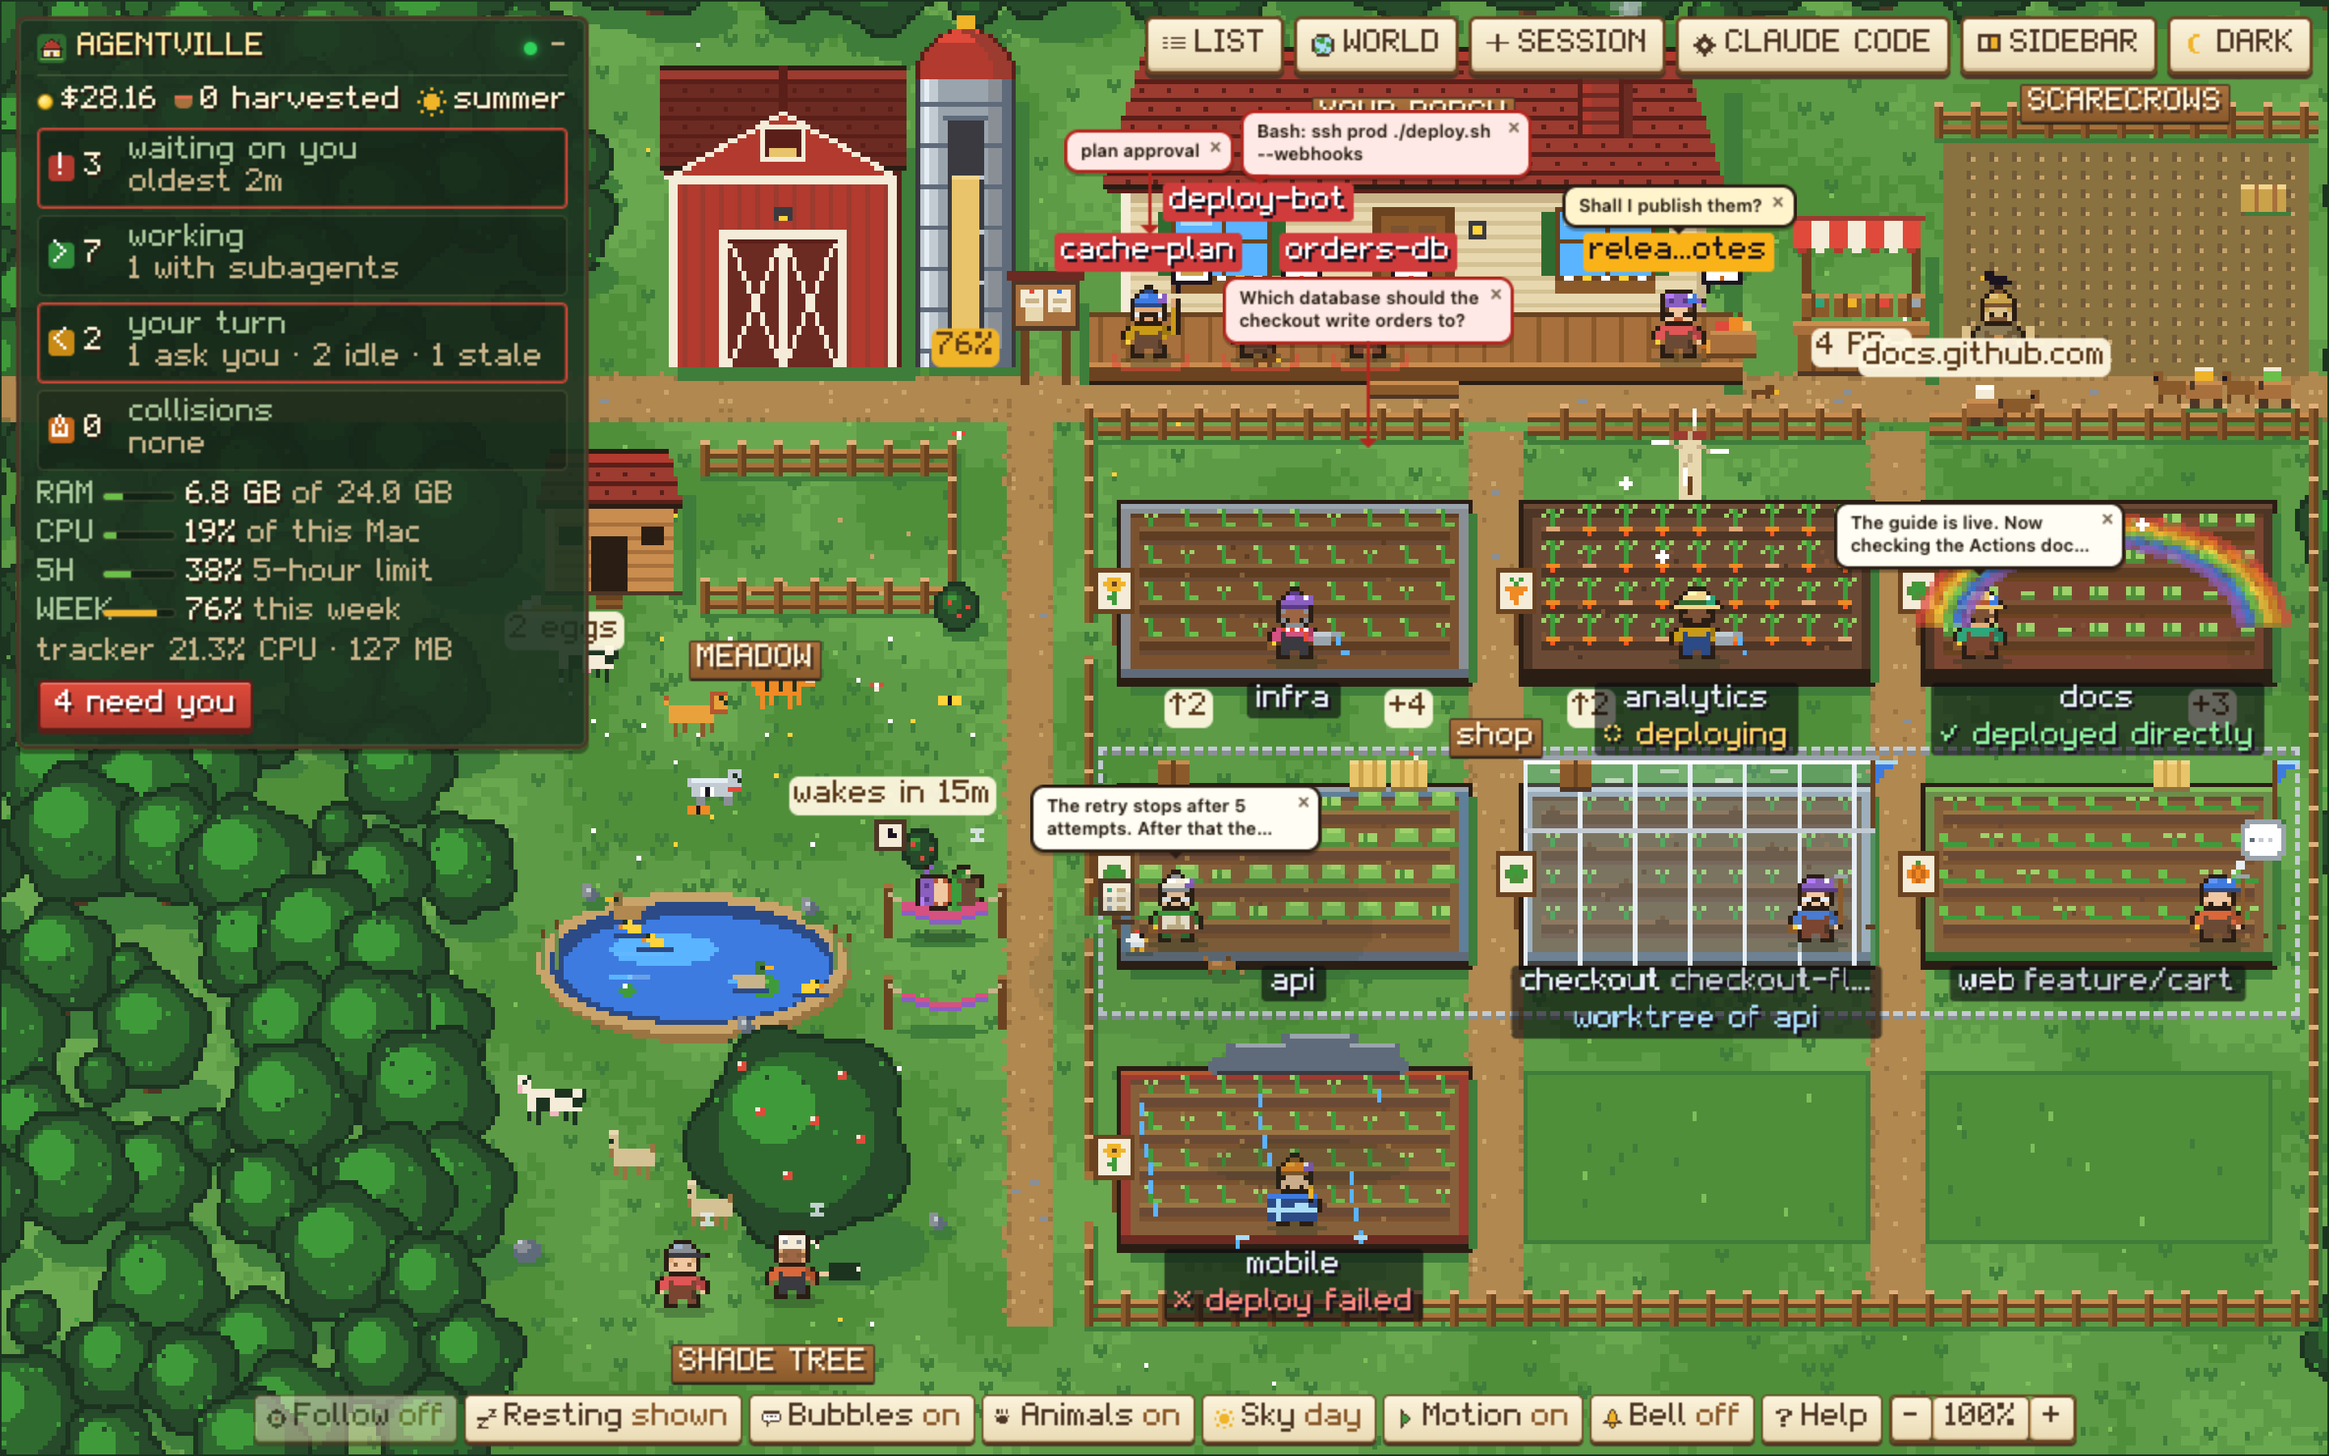
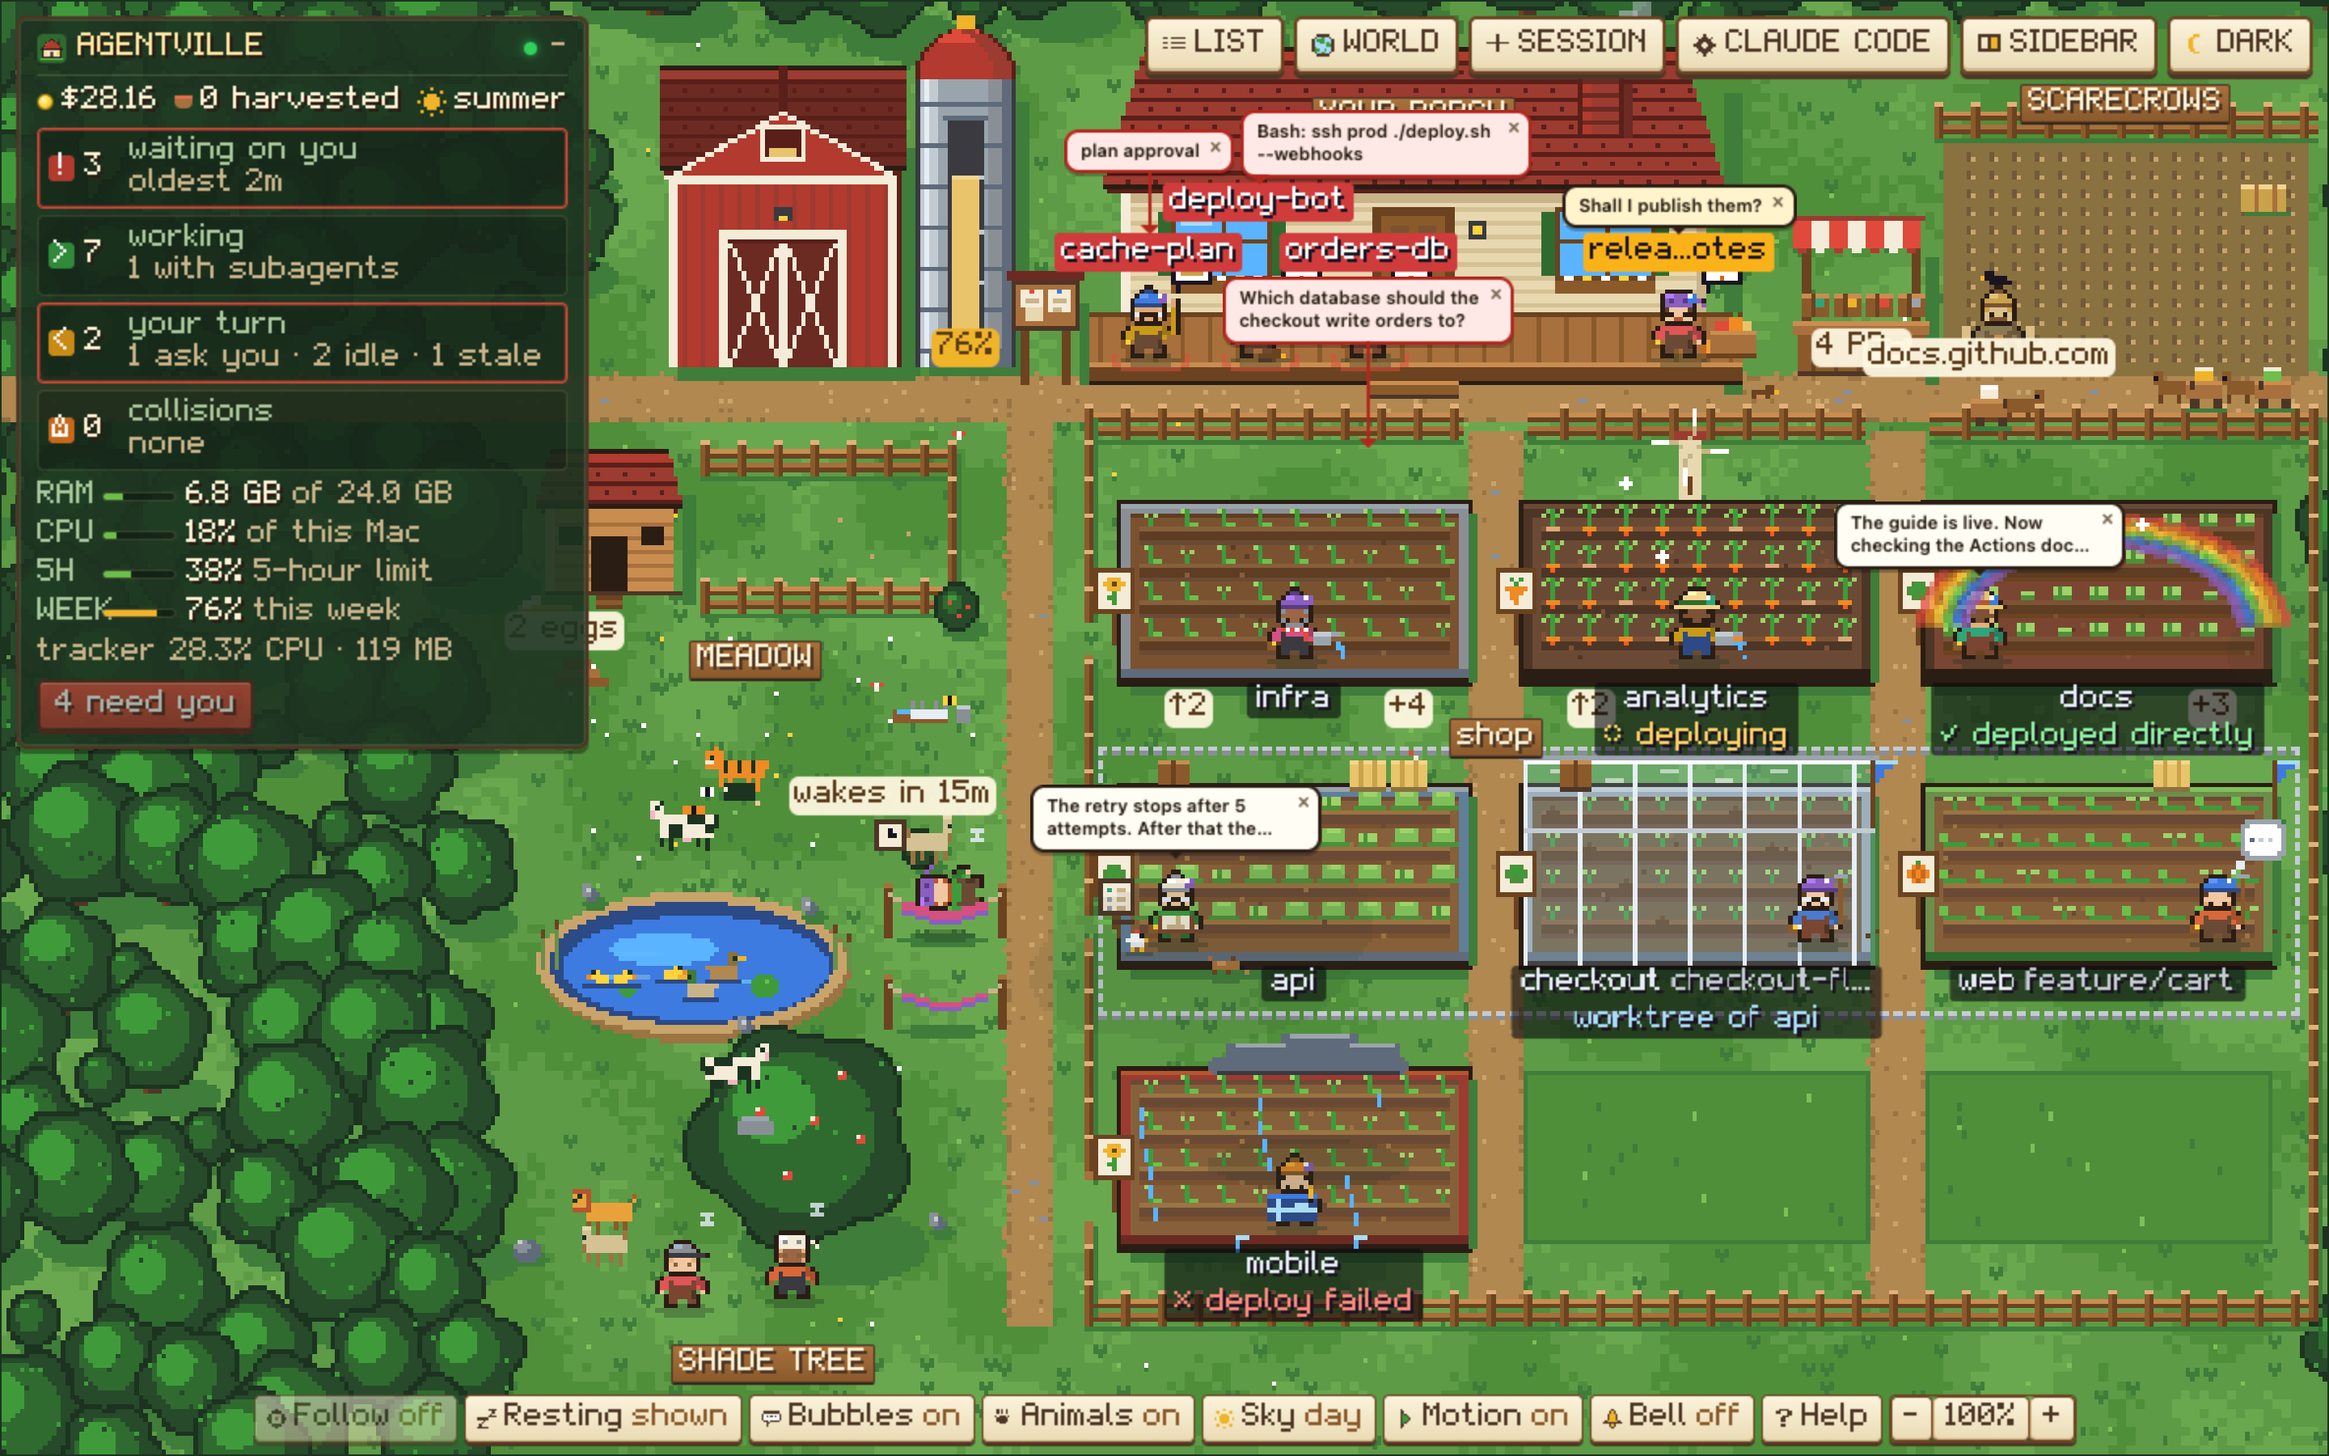
Animals part B: browser check, the guide and README

diff --git a/docs/worlds.md b/docs/worlds.md
@@ -495,9 +495,12 @@ A hook you give always wins over its default.
 | `tick` | `(dt, posOf, snap)` | nothing: called each frame, and `snap` is true when the world is drawn still |
 | `ambient` | `(dt, addParticle)` | nothing: called each frame |
 | `weather` | `(sky)` | nothing: drawn over the sky |
-| `animals` | `()` | `[]`: the world's creatures (see "Creatures"). With any, the engine draws them and adds an Animals switch |
+| `animals` | `()` | `[]`: the world's creatures (see "Creatures"): a list, or `{ cast, gags, play }`. With any, the engine draws them and adds an Animals switch |
 | `roam` | `()` | `[]`: rectangles `{ x, y, w, h }` where they may walk. Keep them off anything that shows data |
 | `avoid` | `()` | `[]`: rectangles inside those that they keep off (a pond, a henhouse) |
+| `perches` | `()` | `[]`: `[x, y, lift]` points a climber stands on, `lift` pixels up (a woodpile, a rock). One it can't reach is skipped |
+| `spots` | `()` | `{}`: named points gags go to (`{ hammock: [x, y] }`), and `huddle`, where they gather in winter. A spot may be inside an `avoid` rectangle: only a gag goes in |
+| `spotFree` | `(name)` | `true`: may a gag use that spot now (the farm's hammock is taken while an agent naps) |
 
 Buildings: `buildingAt` returns a key when the point is on a building. The key `'barn'` calls the
 page's ＋ Session (starting a session) and `'board'` opens the notice board, built from
@@ -555,7 +558,16 @@ in their own bubbles, and do what you click. They never stand for data. A world 
 - The Animals switch (in the default HUD, or your own `hud` with `animals`) hides them all, and is
   saved as the world's `animals` preference.
 - The engine sets `PXG.animals` before `ground()`: true while they are shown, so a world can leave
-  out what they replace (the farm's scenery duck).
+  out what they replace (the farm's scenery duck). It sets `PXG.taken` too: a `Set` of what they have
+  just now (`'bucket'` while the ostrich wears it), so the world doesn't also draw it in its place.
+- Now and then (one rest in three) one keeps a habit of its own (`habits`, below). Not at night (bar
+  the night owls), not in winter.
+- They react to what happens: a world event from `setScene` with a `kind` (below), and `arrive`,
+  from the engine, when a new agent walks in.
+- In winter (`season()` returns `'winter'`) the goats wear scarves, the pond freezes (the ducks slide
+  on it), they rest twice as long and huddle at `spots().huddle`.
+- Now and then (every one to two minutes, one at a time) they get up to something: a gag, a short
+  script of steps. An agent idle three minutes or more sometimes plays with one (play, two at most).
 
 A creature in `animals()`:
 
@@ -567,13 +579,76 @@ A creature in `animals()`:
 | `name` | The menu's title (the kind) |
 | `home` | `{ x, y, w, h }`: it keeps to this area, and clicking it opens its menu |
 | `bank` | `[[x, y], …]`: where an agent stands to do something with one that has a `home` (the nearest is used); else beside it |
-| `actions` | Its menu, 2 to 4: `{ label, fx?, pose?, line?, run?, gather?, ms? }`. `fx` is `'hearts'`, `'crumbs'` or `'dust'`; `pose` what it does meanwhile (`happy` by default); `line` a key of `lines` it says; `run` makes it run off; `gather` brings every one of its kind to it (feeding the ducks); `ms` how long (2500) |
-| `lines` | `{ idle: […], <key>: […] }`: what it says, now and then (`idle`) and after an action (`line`). 40 characters at most each |
+| `actions` | Its menu, 2 to 4: `{ label, fx?, pose?, line?, run?, gather?, steal?, ms? }`. `fx` is `'hearts'`, `'crumbs'` or `'dust'`; `pose` what it does meanwhile (`happy` by default); `line` a key of `lines` it says; `run` makes it run off; `gather` brings every one of its kind to it (feeding the ducks); `steal`, with `gather`, sends its last `duckling` look first, fast, to say `lines.bread`; `ms` how long (2500) |
+| `lines` | `{ idle: […], <key>: […] }`: what it says, now and then (`idle`), after an action (`line`), in a gag (`say`) and when it reacts (the event's kind). 40 characters at most each |
+| `habits` | What it does now and then, of: `climb` (onto a `perch`), `circles`, `hide` (the ostrich's head in the ground; it hides from a failed deploy too), `yawn`, `stretch`, `roll` (onto its back), `chaseTail`, `pounce`, `fetch` (runs off and back), `laps` |
+| `reacts` | `{ <event kind>: what }`, over the defaults: `'scatter'`, `'hop'`, `'gather'`, `'hide'` or `'run'` (to where it happened); `null` for nothing |
 
 The library's creatures, each drawn on its feet, facing either way: `cow`, `goat`, `sheepdog` (with a
 red bandana), `ostrich`, `lion`, `tiger`, `duck` (looks `drake`, `hen`, `duckling`), `cat`, `dog`,
-`pigeon`, `mouse` and `fish`. Their poses: `stand`, `walk`, `run`, `eat`, `sleep`, `happy`; the duck's
-`swim` and `dabble`; the ostrich's `hide`.
+`pigeon`, `mouse` and `fish`. Their poses: `stand`, `walk`, `run`, `eat`, `sleep`, `happy`, `yawn`,
+`startled`, `stretch`, `roll`; the duck's `swim`, `dabble` and `slide` (on ice); the ostrich's `hide`.
+What they can wear (the kit puts it on): a goat's scarf and a hat (a farmer's, in a gag), the
+ostrich's bucket.
+
+### Reactions
+
+Return events from `setScene` with a `kind` and the kit reacts where it happened (`at`, or beside the
+event's agent). An event with an empty `text` pops nothing: it is for the animals only.
+
+| Kind | By default | The farm sends it |
+|---|---|---|
+| `deployFailed` | They scatter (the ostrich hides) | A field's weather turns to rain |
+| `deployOk` | They hop | A field's weather turns to a rainbow |
+| `harvest` | Up to four gather there | An agent's conversation is compacted |
+| `merged` | Nothing (the farm's sheepdog runs to the stall) | A pull request is merged |
+| `arrive` | Nothing (the farm's sheepdog runs to meet it) | From the engine: a new agent walks in |
+
+Each kind at most once in 30 s. Those near it react (within 120 px, or the three nearest), and the
+first says `lines[<kind>]` if it has one.
+
+### Gags and play
+
+`animals()` may return `{ cast, gags, play }`: the creatures, then short scripts they play out.
+
+```
+{ id, needs: { <kind>: n, farmer?: 'idle' | 'busy', chicken?: true, spot?: '<name>' }, lines?: { <key>: […] }, steps: [ … ] }
+```
+
+`needs` says who it takes: creatures of a kind (awake, not busy with something else), an agent
+(`farmer`), a subagent's chicken within 40 px of the first creature, a free spot. A gag starts only
+when all are there. Its roles are the kinds it needs (the first of each picked), `'farmer'` (the agent
+nearest it) and `'chicken'`. The steps run one at a time:
+
+| Step | What it does |
+|---|---|
+| `{ go: role, to, run?, ms? }` | Walks there (runs with `run`): `to` is a role (beside it), `'spot:<name>'`, `'away'` (somewhere far) or `'back'` (where it started). Done on arrival, or after `ms` (as long as the walk takes by default). A creature that can't get within 24 px of a role ends the gag; the way into a spot inside `avoid` is checked up to its edge |
+| `{ chase: 'farmer', after: role, ms }` | The agent follows the role for `ms` |
+| `{ say: role, line }` | The role says `lines[line]` (its own, or the gag's) |
+| `{ pose: role, is, ms }` | A pose for `ms` |
+| `{ wear: role, what: 'hat' \| 'bucket', on }` | A hat is the agent's own (the agent is drawn `hatless` meanwhile); the bucket is in `PXG.taken` |
+| `{ wait: ms }` | A pause |
+| `{ fx: 'hearts' \| 'crumbs' \| 'dust', at: role }` | An effect |
+| `{ stay: role, is?, ms, while: 'spot:<name>' }` | Stays (asleep by default) while `spotFree(name)` says the spot is free |
+
+The rules the engine keeps for the agents a gag borrows:
+
+- Only idle agents walk: never one waiting on you or on its turn. One that starts waiting, or gets
+  work, ends the gag at once, and everything is put back (the hat on its head, the bucket by the
+  trough, the agent let go).
+- A busy agent (`farmer: 'busy'`) is never moved: the creature comes to it, and its hat is off 3 s at
+  most. A gag that would take longer, or move it, is dropped.
+- Motion off, the animals hidden or the page reloaded: every gag ends where it is.
+
+`play` is the same shape, for an agent idle three minutes or more (checked every 45 s, two at most):
+the agent walks to a creature and plays (a stick for the dog, a goat to pet). Work, or you, call it
+back.
+
+A gag written wrong (a step it doesn't know, a role it wasn't given) is dropped the first time it
+runs, with one warning in the console: "Animals: the gag <id> was dropped: <why>". The world goes on.
+
+A body the kit has borrowed carries flags for your `drawChar`: `b.hatless` while a creature has its
+hat (the farm draws that farmer with `hat: 'none'`, and leaves out the pin on its hat).
 
 A cat for a world 200 wide, in `world.js`'s hooks:
 
@@ -583,9 +658,22 @@ roam: () => [{ x: 4, y: 60, w: 90, h: 40 }],
 avoid: () => [],
 ```
 
-The rules for your creatures: none in a `taken` shape; lines of 40 characters at most; `roam` areas
-clear of anything that shows data (the farm keeps them out of its fields, off the hay, crates and
-mailbox, and off the carts' rank).
+The same cat with habits, a reaction and a gag (it jumps at nothing, then says so):
+
+```js
+animals: () => ({
+  cast: [{ kind: 'cat', name: 'Cat', habits: ['yawn', 'pounce', 'chaseTail'], actions: [{ label: 'Pet', fx: 'hearts', line: 'petted' }, { label: 'Feed', fx: 'crumbs', pose: 'eat', line: 'fed' }],
+    lines: { idle: ['mrrp.'], petted: ['purr ♥'], fed: ['MEOW'], deployFailed: ['not me'] } }],
+  gags: [{ id: 'pounce', needs: { cat: 1 }, steps: [{ pose: 'cat', is: 'startled', ms: 600 }, { say: 'cat', line: 'idle' }] }],
+  play: [],
+}),
+roam: () => [{ x: 4, y: 60, w: 90, h: 40 }],
+avoid: () => [],
+```
+
+The rules for your creatures: none in a `taken` shape; lines of 40 characters at most (a gag's own
+too); `roam` areas, `perches` and `spots` clear of anything that shows data (the farm keeps them out
+of its fields, off the hay, crates and mailbox, and off the carts' rank).
 
 ## What a world can't do
 

diff --git a/README.md b/README.md
@@ -122,7 +122,8 @@ It listens on `127.0.0.1` only and reads what Claude Code already writes to disk
   cart drives to the farmer calling it, and you click
   the barn to start a session.
 - Animals on the farm, just for fun: cows, goats, a sheepdog, an ostrich, a lion, a tiger and a duck
-  family on the pond. Click one to pet or feed it, and a farmer walks over to do it.
+  family on the pond. Click one to pet or feed it, and a farmer walks over to do it. Now and then they
+  get up to something (a goat steals a hat), react to deploys and merges, and huddle in winter.
 - The farm is a world: it runs in a sandboxed frame of its own, with no access to the token, and
   asks the page for the little it needs ([docs/worlds.md](docs/worlds.md)). A world from your own
   folder sees no words or paths until you tick **Can see what agents say** for it.
@@ -615,8 +616,25 @@ on the farm just for fun. They never stand for anything.
   does it, and walks back. One at work goes only if it can be there and back in a few seconds, and one
   that starts waiting on you drops it at once. With no one free, or Motion off, you do it yourself, at
   once, in place.
-- Feeding the ducks brings the whole family paddling over.
+- Feeding the ducks brings the whole family paddling over, and the littlest duckling gets there first.
+- Each has its habits: the goats climb the woodpile and the rock, the ostrich runs in circles and
+  hides its head, the lion yawns and stretches, the tiger chases its tail and pounces, the sheepdog
+  fetches, rolls over and runs laps. A trough with a bucket, a woodpile and a rock appear in the yard
+  with them.
+- Now and then (every minute or two) they get up to something. A goat steals an idle farmer's hat and
+  is chased for it; one nibbles the hat of a farmer working in the meadow, who keeps working. The ostrich
+  runs off wearing the trough's bucket. The lion is startled by a chicken, a cow naps in the empty
+  hammock (and gets out when a farmer needs it), and the tiger plays tag with the sheepdog. Only idle
+  farmers are ever borrowed, never one waiting on you; one that starts waiting, or gets work, drops it
+  at once and gets its hat back.
+- They react: a failed deploy (rain on a field) scatters them and the ostrich hides, a good one (a
+  rainbow) makes them hop, a harvest draws a few over, and the sheepdog runs to the stall when a pull
+  request is merged and to meet a new farmer.
+- A farmer idle for three minutes or more sometimes plays with one: throws the sheepdog a stick, pets a
+  goat, naps by the lion. Two at most.
+- In winter they huddle together, the goats wear scarves and the ducks slide on the frozen pond.
 - The **Animals** switch hides them all (and brings back the pond's white duck); it is remembered.
+  With it off, or **Motion** off, whatever they were up to stops where it is.
 
 **Reading the farm.** The **i** button opens the full legend, including every tool a farmer
 can hold.
@@ -880,6 +898,7 @@ and can do is in [docs/worlds.md](docs/worlds.md).
 | The dashboard doesn't load | `agent-tracker status`, then `agent-tracker logs`. Check that nothing else uses the port |
 | A session shows "dashboard answers off" | Its mod isn't loaded. Check `CLAUDE_CODE_PLUGIN_DIRS` in `~/.claude/settings.json`, then type anything in the session or `/reload-plugins` |
 | "runs an older tracker mod" | `/reload-plugins` in that session, or resume it |
+| An idle farmer walks off to the animals, or has no hat | It is playing (idle three minutes or more) or a goat has its hat; it is the farm's fun, not the session. It comes back the moment it gets work or needs you. Switch **Animals** off to stop it all |
 | **■ Stop** on the working line, or **✕ Cancel** on a question, is greyed out | Both need mod 0.7.0: `/reload-plugins` in that session. Until then, press Esc in its terminal |
 | No cost, plan usage or working line | These come from the mod (0.4.0 or newer; the working line from 0.5.0) in a running session |
 | My world shows no bubbles and calls repos r1, r2… | It is in privacy mode: tick **Can see what agents say** for it in the list of worlds. Unticking later doesn't clear what the world saved while it could see; it gets its own saved settings back on start |
